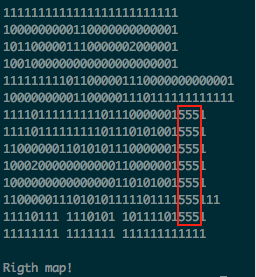
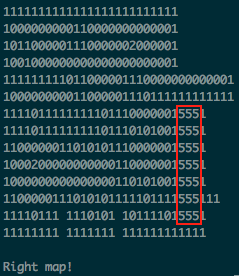
added pulls

diff --git a/map_boundaries.c b/map_boundaries.c
@@ -141,6 +141,6 @@ int main(int argc, char **argv)
 	map[i][j] = '0';
 	ft_flood_fill(map, i, j, lines);
 	ft_printmap(map);
-	printf("Rigth map!\n");
+	printf("Right map!\n");
 	return (0);
 }
